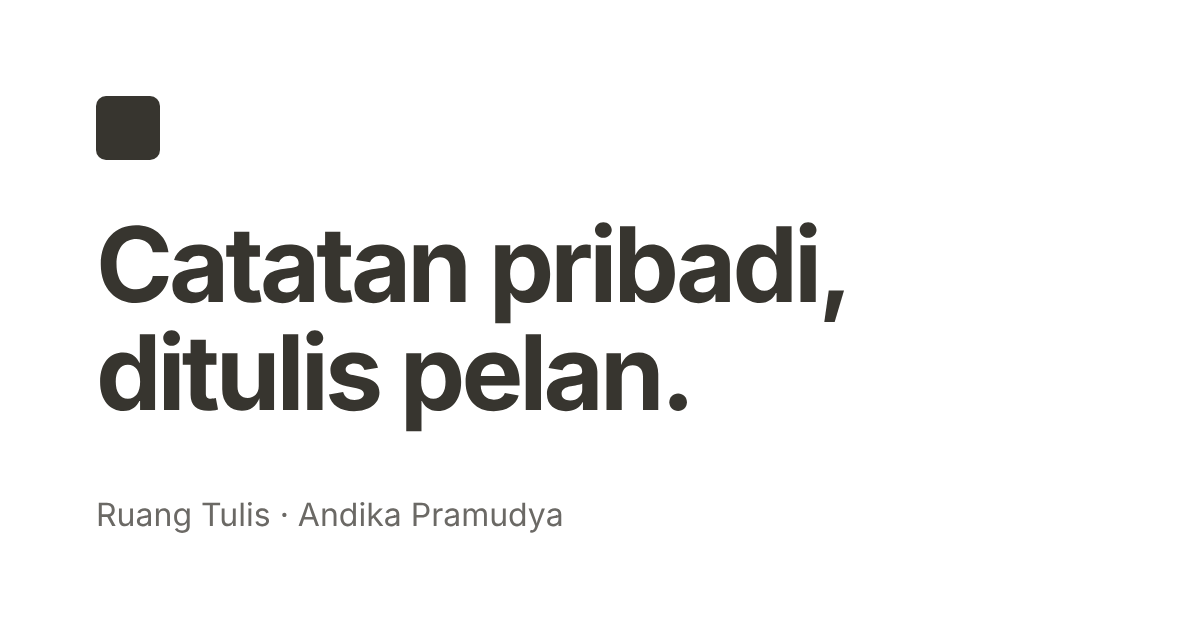
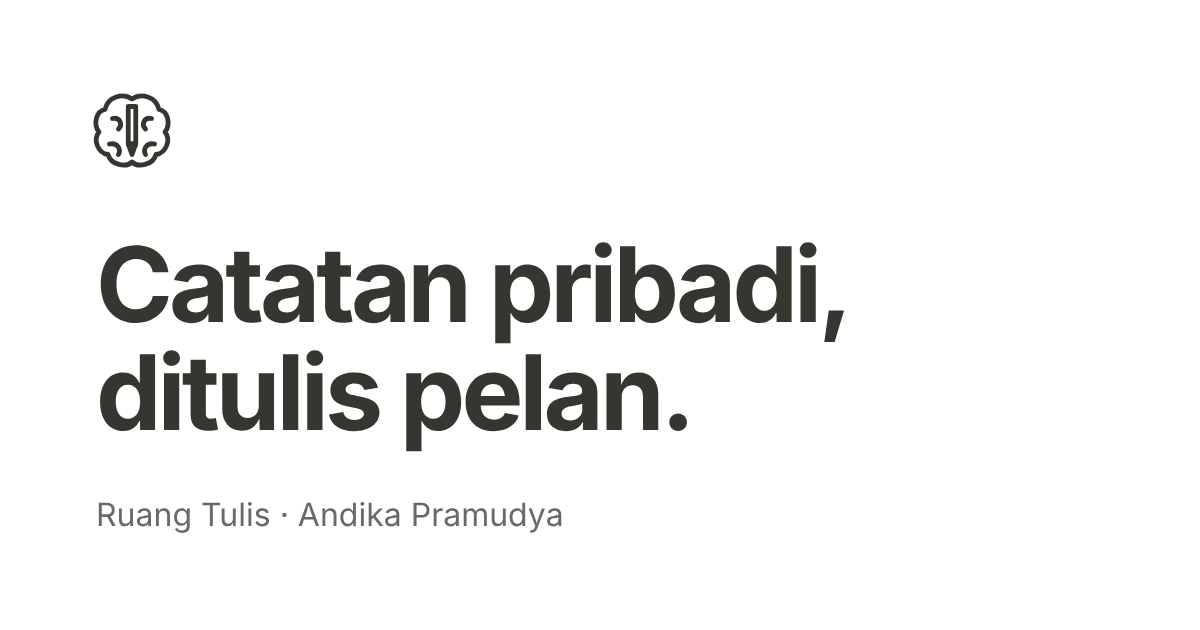
Ganti ikon Ruang Tulis menjadi otak dengan pensil
Logo header, favicon (mengikuti tema gelap), dan kartu pratinjau tautan memakai ikon otak dengan pensil sebagai belahan tengah.

Changed region(s): [[0.0617, 0.3317, 0.7092, 0.7238], [0.0617, 0.1508, 0.1542, 0.2714]]

diff --git a/style.css b/style.css
@@ -86,8 +86,8 @@ p { margin: 0 0 var(--space-4); }
 .header-inner { max-width: var(--wide-width); margin: auto; min-height: 60px; display: flex; align-items: center; gap: 24px; padding: 8px 24px; }
 .logo { display: inline-flex; align-items: center; gap: 10px; font-size: 16px; font-weight: 600; letter-spacing: -.01em; white-space: nowrap; min-height: 44px; }
 .logo:hover { text-decoration: none; }
-.logo-mark { display: grid; place-items: center; width: 26px; height: 26px; background: var(--text); color: var(--bg); border-radius: var(--radius-control); }
-.logo-mark svg { width: 15px; height: 15px; }
+.logo-mark { display: grid; place-items: center; width: 32px; height: 32px; color: var(--text); }
+.logo-mark svg { width: 32px; height: 32px; }
 .nav-menu { display: flex; gap: 2px; margin-left: auto; }
 .nav-menu a { display: inline-flex; align-items: center; min-height: 36px; padding: 6px 10px; border-radius: var(--radius-control); color: var(--text-muted); font-size: 14px; font-weight: 500; transition: background-color var(--motion-fast), color var(--motion-fast); }
 .nav-menu a:hover, .nav-menu a.active { color: var(--text); background: var(--surface-hover); text-decoration: none; }

diff --git a/tulis.html b/tulis.html
@@ -11,7 +11,7 @@
   <a class="skip-link" href="#postTitle">Lewati ke tulisan</a>
   <header class="site-header">
     <div class="header-inner writer-header">
-      <a href="index.html" class="logo"><span class="logo-mark" data-icon="pen"></span>Ruang Tulis<span class="writer-label">/ Penulis</span></a>
+      <a href="index.html" class="logo"><span class="logo-mark" data-icon="brain"></span>Ruang Tulis<span class="writer-label">/ Penulis</span></a>
       <div class="writer-actions">
         <button class="icon-button" id="libraryButton" type="button" aria-label="Buka draft dan tulisan" title="Draft dan tulisan"><span data-icon="book"></span></button>
         <button class="theme-toggle" id="themeToggle" type="button" aria-label="Ganti tema"></button>

diff --git a/ui.js b/ui.js
@@ -10,6 +10,7 @@
     image:'<rect x="3" y="3" width="18" height="18" rx="3"/><circle cx="8" cy="8" r="1.5"/><path d="m21 15-5-5-7 8-3-3-3 3"/>',
     plus:'<path d="M12 5v14M5 12h14"/>',
     check:'<path d="m5 12 4 4L19 6"/>',
+    brain:'<g transform="scale(.375)" stroke-width="3.8"><path d="M32 10C26 6 16 8 14 17C8 18 6 27 10 32C6 37 9 46 16 47C18 54 28 56 32 52C36 56 46 54 48 47C55 46 58 37 54 32C58 27 56 18 50 17C48 8 38 6 32 10Z"/><path d="M19 23C24 22 26 27 23 30M17 40C22 39 25 43 23 47M45 23C40 22 38 27 41 30M47 40C42 39 39 43 41 47"/><rect x="29.5" y="15" width="5" height="25"/><path d="M29.5 40L32 47L34.5 40Z"/></g>',
     book:'<path d="M12 6c-3-2-6-2-9-1v15c3-1 6-1 9 1 3-2 6-2 9-1V5c-3-1-6-1-9 1Zm0 0v15"/>'
   };
   window.RuangUI = {

diff --git a/index.html b/index.html
@@ -27,7 +27,7 @@
     <a class="skip-link" href="#main">Lewati ke isi</a>
   <header class="site-header">
     <div class="header-inner">
-    <a href="#home" class="logo" data-page="home"><span class="logo-mark" data-icon="pen"></span>Ruang Tulis</a>
+    <a href="#home" class="logo" data-page="home"><span class="logo-mark" data-icon="brain"></span>Ruang Tulis</a>
 
     <nav class="nav-menu" id="navMenu" aria-label="Navigasi utama">
       <a href="#home" data-page="home">Beranda</a>
